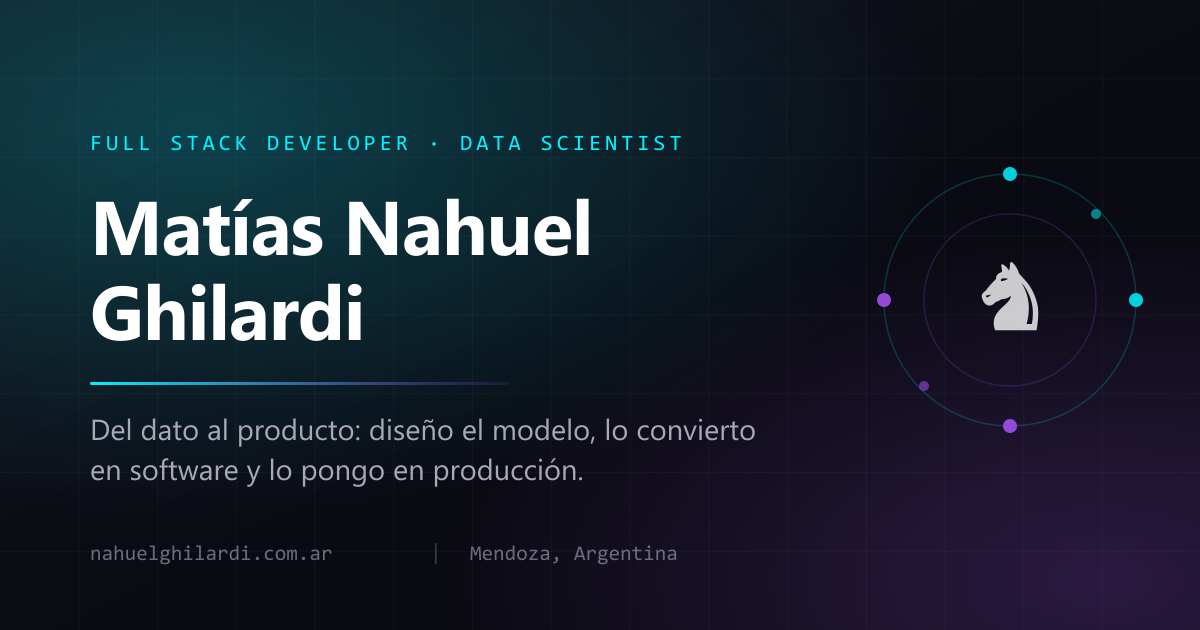
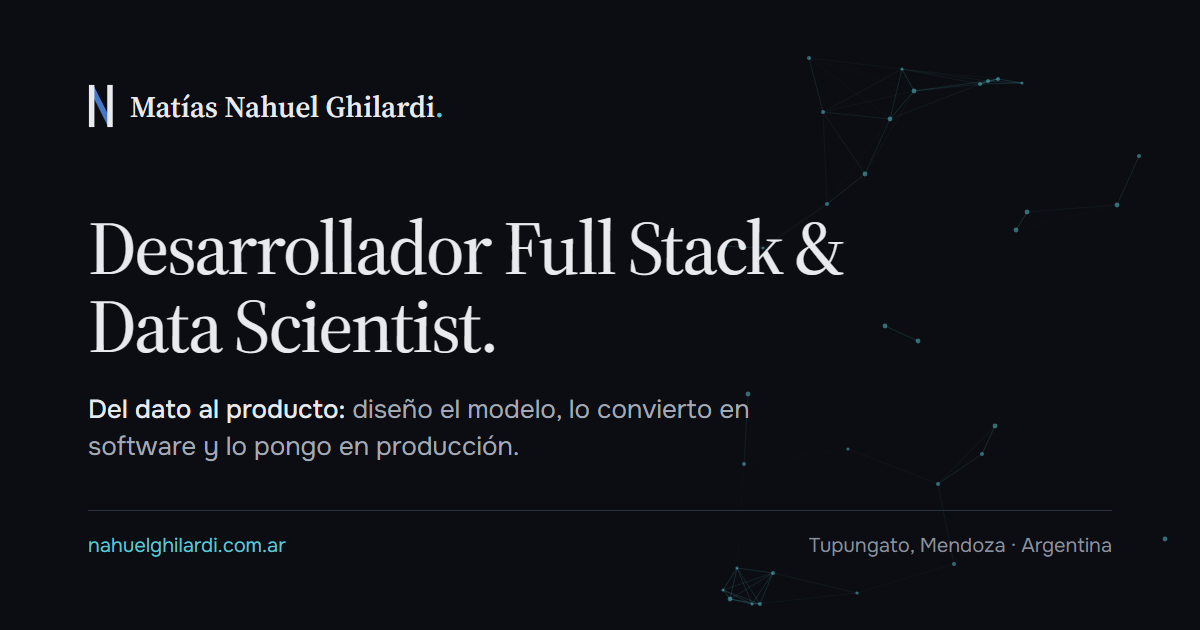
feat: imagen para redes nueva, una por idioma
La vista previa al compartir el link (LinkedIn, WhatsApp, X) mostraba el
diseño anterior. Ahora usa la paleta, la N, el nombre, el rol y la frase,
en español para / y en inglés para /en/.

En inglés, la nota de los testimonios aclara que las citas están en su
español original: son textuales y no se traducen.

diff --git a/src/config/site.ts b/src/config/site.ts
@@ -21,5 +21,6 @@ export const SOCIALS = {
   linkedin: "https://www.linkedin.com/in/nahuel-ghilardi/",
 };
 
-/** Imagen por defecto para las previsualizaciones al compartir (1200x630). */
+/** Imagenes para las previsualizaciones al compartir (1200x630), por idioma. */
 export const OG_IMAGE = "/og-image.png";
+export const OG_IMAGE_EN = "/og-image-en.png";

diff --git a/src/i18n/ui.ts b/src/i18n/ui.ts
@@ -194,7 +194,7 @@ export const ui = {
 
     // Testimonials
     'testimonials.role.direction': 'Management',
-    'testimonials.disclaimer': 'Testimonials published on',
+    'testimonials.disclaimer': 'Verbatim quotes, in their original Spanish, published on',
 
     // Case studies
     'case.badge': 'Case study',
